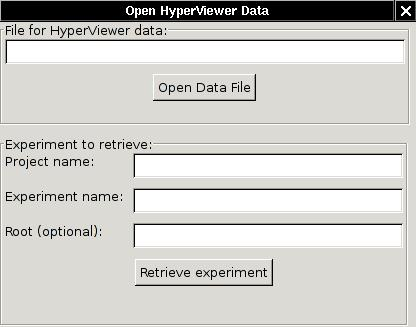
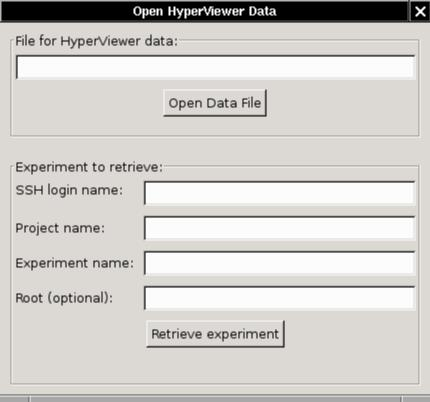
Update doc in response to Rob's feedback, new features.

diff --git a/www/hyperviewer/index.html b/www/hyperviewer/index.html
@@ -191,7 +191,8 @@ includes a good online manual.)</li>
     </ul>
   </ul>
 </ul>
-<div style="margin-left: 120px;">Test that everything is set up with:<br>
+<div style="margin-left: 120px;">Test that everything is set up, and
+accept the Boss host key with:<br>
 </div>
 <pre style="margin-left: 160px;">plink boss.emulab.net</pre>
 <ul>
@@ -209,11 +210,28 @@ page as above, and do the following once to get boss.emulab.net put
 into your .ssh/known_hosts file:<br>
 </div>
 <pre style="margin-left: 160px;">ssh boss.emulab.net<br></pre>
+<ul>
+  <ul>
+    <ul>
+      <li>Note: Unless you have <span style="font-weight: bold;">run
+the plink or ssh command</span> to boss.emulab.net in a shell, the SSH
+setup is not complete!&nbsp; Both of them ask the first time for you to
+accept the host key.&nbsp; Until that has been done, the HyperViewer
+client program will not be able to connect.<br>
+      </li>
+    </ul>
+  </ul>
+</ul>
 <div style="margin-left: 80px;"><span style="font-weight: bold;">Emulab
 user name:</span> If your Emulab user name is different from your login
 name, set the EMULAB_USER environment variable to your Emulab user
 name.&nbsp; hypview will use that in preference to the USER or USERNAME
-variables, and default to "guest" if none of them are set.<br>
+variables, and default to "guest" if none of them are set.&nbsp; This
+may be over-ridden in the Open/Experiment window.<br>
+<br>
+<span style="font-weight: bold;">Emulab project name:&nbsp;</span>
+Similarly, if you always use the same project name, you can set it to
+default in the EMULAB_PROJECT environment variable.<br>
 </div>
 <ul>
 </ul>
@@ -570,7 +588,8 @@ right is the <span style="font-weight: bold;">control panel</span>.<br>
 </div>
 <br>
 </div>
-<h4><a name="mouse">Mouse: dragging, rotation, and picking</a></h4>
+<h4><a name="mouse"></a>Mouse: dragging, rotation, and picking<br>
+</h4>
 <span style="font-weight: bold;"></span>
 <ul style="margin-left: 40px;">
   <li>Pressing the "Help" button, or selecting Help/Usage from the menu
@@ -738,22 +757,25 @@ Defaults to 12, the range is 1 to 30.<br>
 There is one more dialog panel which pops up when you select the
 <span style="font-weight: bold;">File/Open</span> menu item, or type
 Ctrl-O.&nbsp; You can read a .hyp file, or
-load an experiment from the database via XML-RPC.<br>
+load an experiment from the database via XML-RPC over SSH.<br>
 <ul>
   <li>There is no browser option yet.&nbsp; Ya just gotta type or
 cut-and-paste.&nbsp; (This is Alpha software!)</li>
   <li>For experiments, the optional root node is the host or lan from
 which the tree layout starts.&nbsp; If you know it, put it in.&nbsp;
 Otherwise the first lan in the database links list is chosen, or the
-first host if there are no lans.&nbsp; <br>
-  </li>
-</ul>
-<div style="margin-left: 40px;">The root node name may optionally be a <span
+first host if there are no lans.</li>
+  <li>The root node name may optionally be a <span
  style="font-style: italic;">glob</span> expression, with *, ?, and []
 wildcards.&nbsp; In that case we make up a root node name and put the
 matching nodes under it.&nbsp; There is an example of why you would
-want to do this below.<br>
-</div>
+want to do this <a href="#example">below</a>.</li>
+  <li>You can over-ride the default SSH login name and project name
+with the environment variables EMULAB_USER and EMULAB_PROJECT.&nbsp;
+For more on setting up the SSH connection to Emulab, see the section <a
+ href="#windows_ssh">above</a>.<br>
+  </li>
+</ul>
 <ul>
   <li>Since HyperViewer is set up to load a file, the experiment option
 actually writes a temp .hyp file.&nbsp; You will see the file name on
